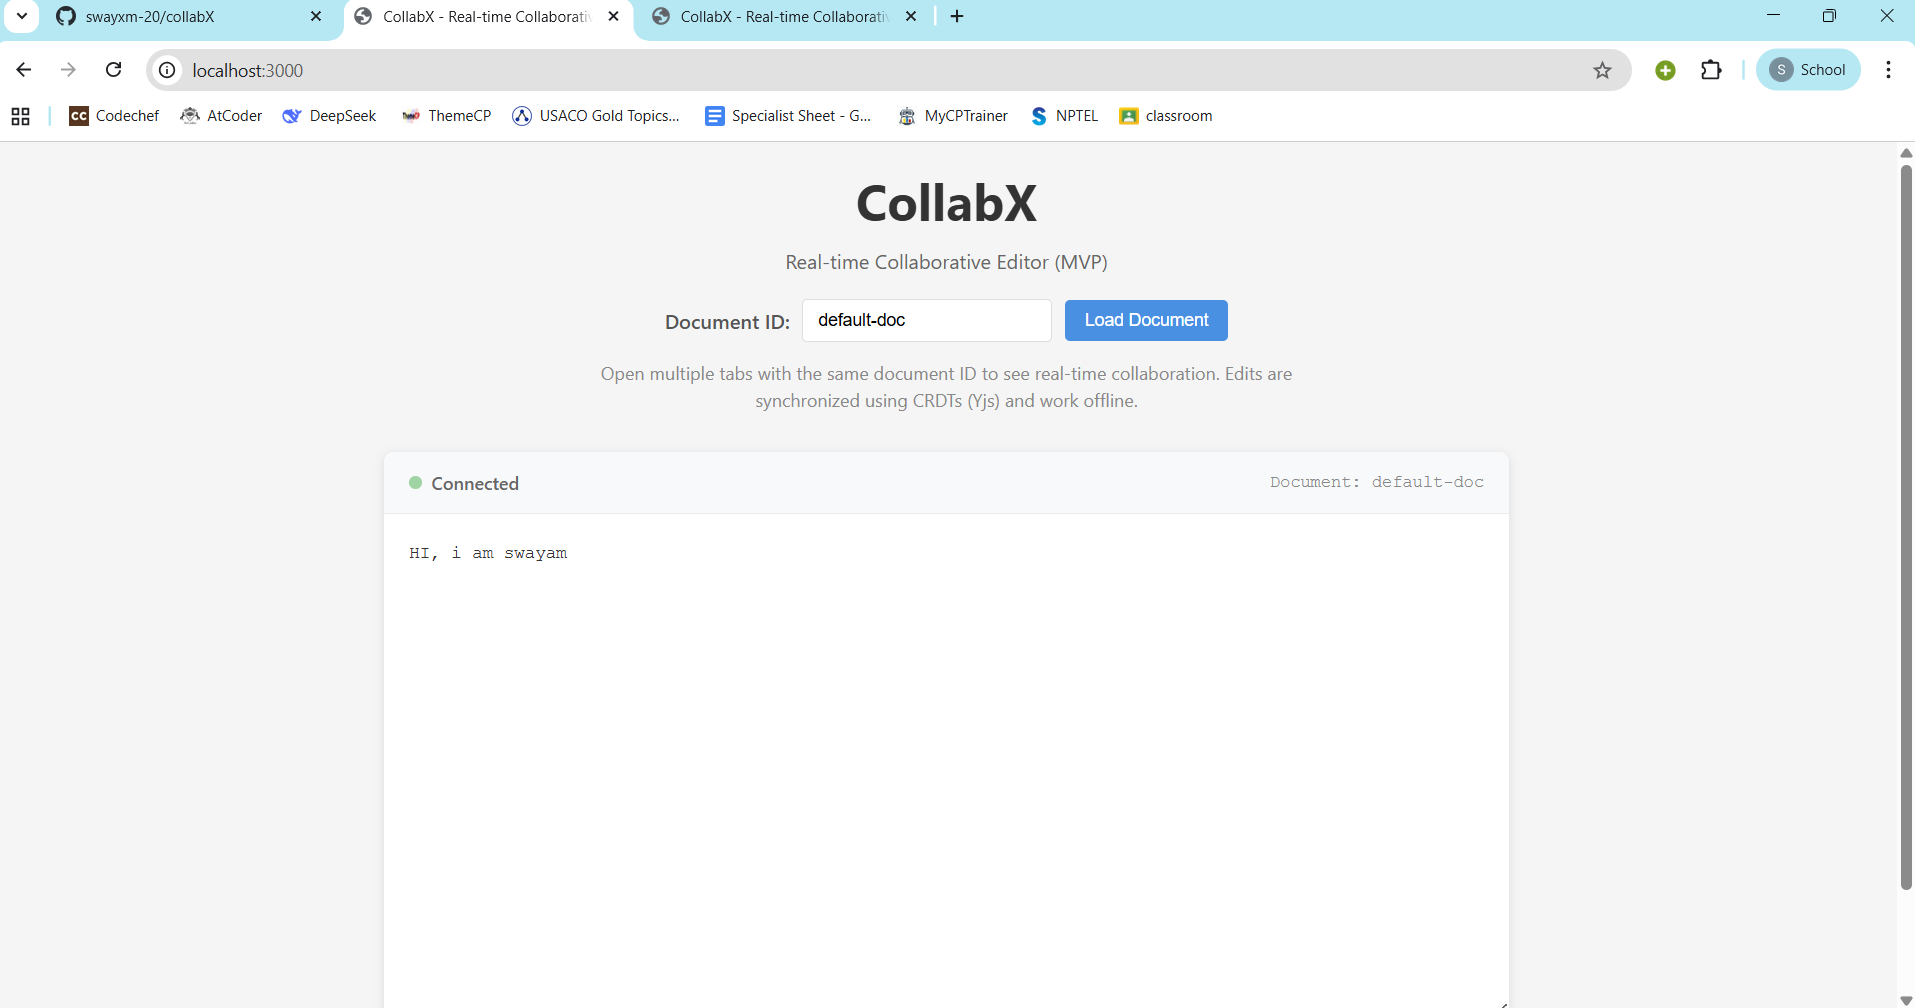
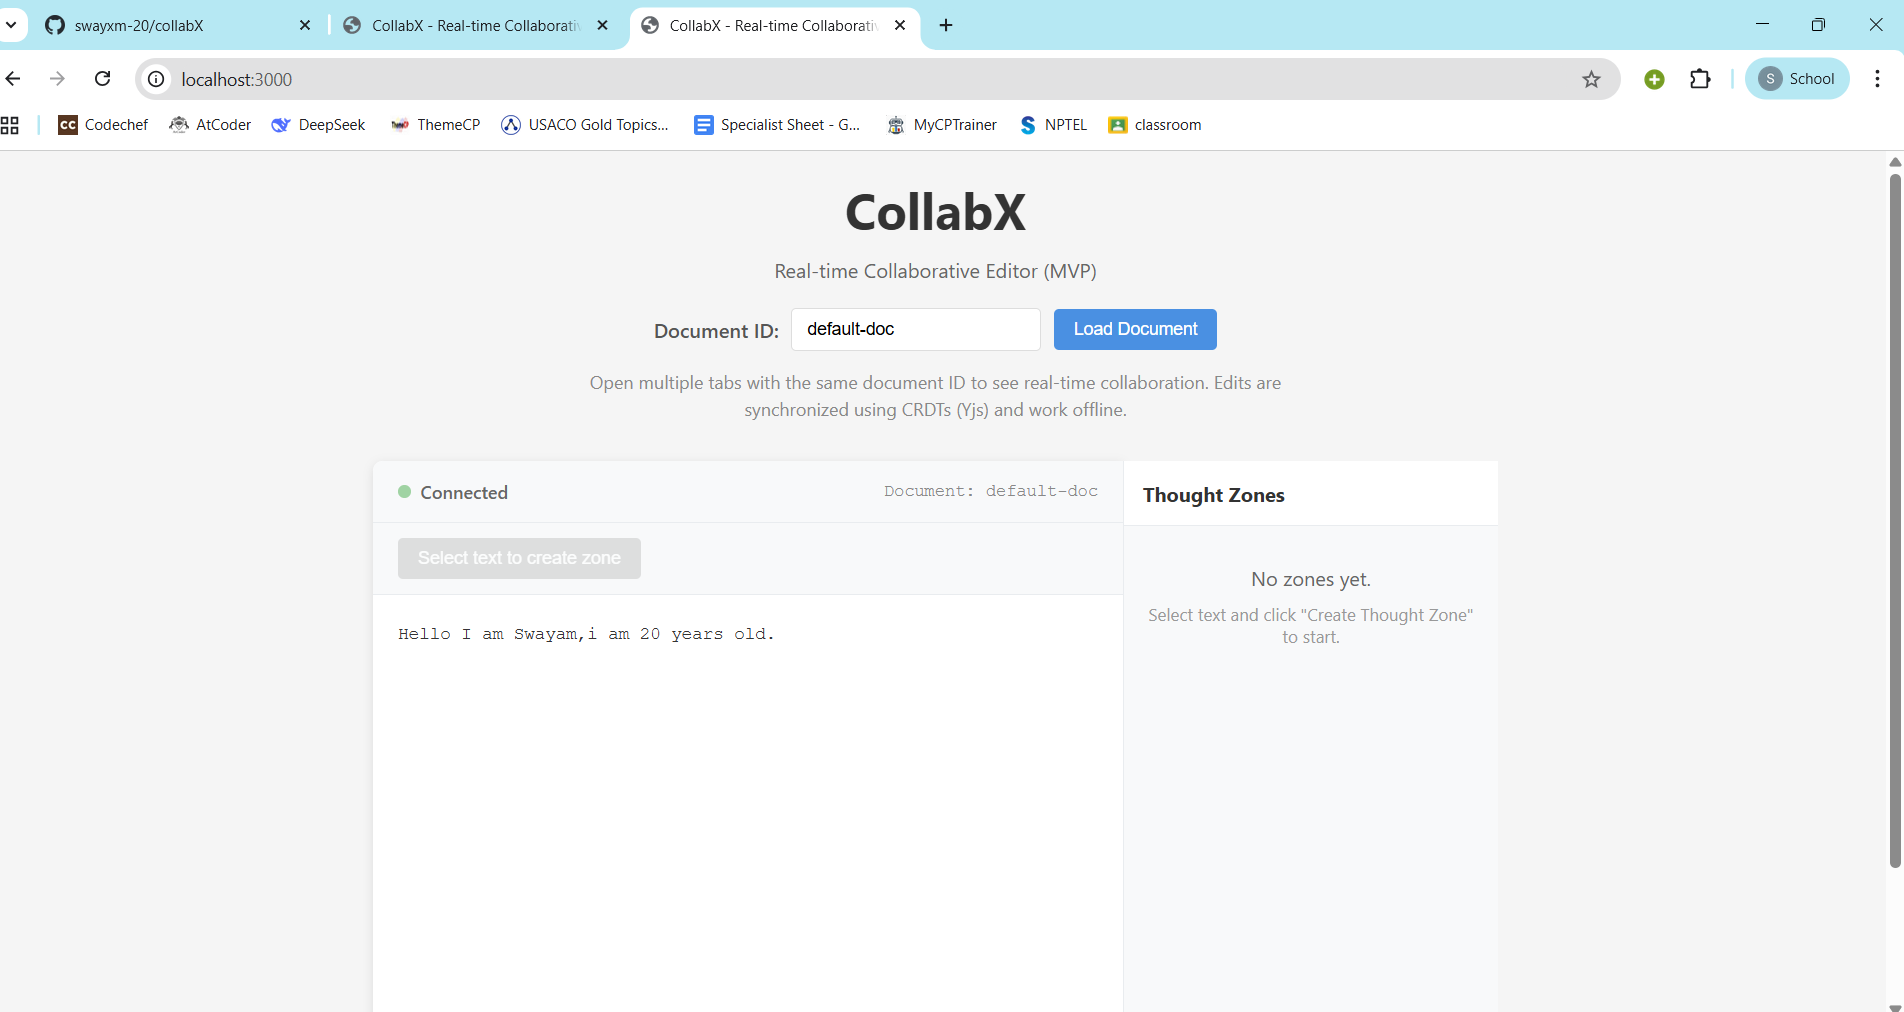
docs: add screenshots and update README with demo section

diff --git a/README.md b/README.md
@@ -100,7 +100,7 @@ The current MVP focuses on zone creation and independent editing. Future enhance
 ### Core Capabilities
 
 - 🔄 **Real-time Synchronization** - See edits from other users instantly
-- 📴 **Offline Support** - Continue editing without internet, syncs when reconnected
+- 🔴 **Offline Support** - Continue editing without internet, syncs when reconnected
 - 🔀 **Conflict-Free Merging** - CRDTs ensure all clients converge to the same state
 - 🚀 **Fast & Lightweight** - Minimal dependencies, optimized for performance
 - 🎨 **Clean UI** - Simple, intuitive interface focused on collaboration
@@ -120,16 +120,25 @@ The current MVP focuses on zone creation and independent editing. Future enhance
 ### Screenshots
 
 #### Main Editor Interface
-![Main Editor](docs/screenshots/main-editor.png)
-*The main collaborative editor interface showing the connected state, document ID control, and text editor with "HI, i am swayam" content*
+<div align="center">
+<img src="docs/screenshots/main-editor.png" alt="Main Editor Interface" width="800"/>
 
-#### Real-time Collaboration
-![Real-time Collaboration](docs/screenshots/realtime-collab.png)
-*Multiple browser tabs editing the same document simultaneously - changes appear in real-time across all connected clients*
+*The main collaborative editor interface showing the connected state, document ID control, and real-time text editing*
+</div>
 
-#### Connection Status
-![Connection Status](docs/screenshots/connection-status.png)
-*Editor showing connection status indicator (green dot = connected) and document information*
+#### Parallel Thought Zones - Connected State
+<div align="center">
+<img src="docs/screenshots/zones-connected.png" alt="Thought Zones Connected" width="800"/>
+
+*Connected state showing the main document and a Parallel Thought Zone on the right sidebar with independent content*
+</div>
+
+#### Parallel Thought Zones - Disconnected State
+<div align="center">
+<img src="docs/screenshots/zones-disconnected.png" alt="Thought Zones Disconnected" width="800"/>
+
+*Disconnected state demonstrating offline editing - edits continue to work locally and will sync when reconnected*
+</div>
 
 ### Live Demo
 
@@ -148,6 +157,25 @@ To see CollabX in action:
    ```
 
 3. **Open multiple browser tabs** at `http://localhost:3000` and start typing!
+
+### Testing Features
+
+**Real-time Collaboration:**
+- Open two browser tabs side by side
+- Type in one tab and watch it appear instantly in the other
+- Edits are synchronized in real-time with zero conflicts
+
+**Offline Support:**
+- Stop the backend server (Ctrl+C)
+- Continue typing in the editor - edits are stored locally
+- Restart the backend - all edits sync automatically
+
+**Parallel Thought Zones:**
+- Select any text in the main document
+- Click "Create Thought Zone" button
+- The selected text appears in a new independent zone in the sidebar
+- Edit both the main document and zones simultaneously
+- Open another tab - all zones sync in real-time across clients
 
 ## 🚀 Quick Start
 
@@ -203,14 +231,14 @@ The frontend will be available at `http://localhost:3000`
 4. Try **disconnecting** one tab (stop the backend) and typing - edits are stored locally
 5. **Reconnect** - the state converges correctly when the backend is restarted
 
-## 🏗 Architecture
+## � Architecture
 
 ### High-Level Architecture
 
 ```
-┌─────────────────────────────────────────────────────────────┐
+┌──────────────────────────────────────────────────────────────┐
 │                        CollabX Architecture                  │
-└─────────────────────────────────────────────────────────────┘
+└──────────────────────────────────────────────────────────────┘
 
 ┌─────────────┐         ┌─────────────┐         ┌─────────────┐
 │   Client 1  │         │   Client 2  │         │   Client 3  │
@@ -308,6 +336,9 @@ collabX/
 │
 ├── docs/
 │   └── screenshots/         # Screenshot directory
+│       ├── main-editor.png
+│       ├── zones-connected.png
+│       └── zones-disconnected.png
 │
 └── README.md                # This file
 ```
@@ -426,7 +457,7 @@ This is a minimal MVP project. Contributions are welcome! Here's how you can hel
 - 🧪 Test coverage
 - 🔒 Security improvements
 
-## 📝 License
+## 📄 License
 
 This is an MVP/demo project. Use as needed for learning and interviews.
 
